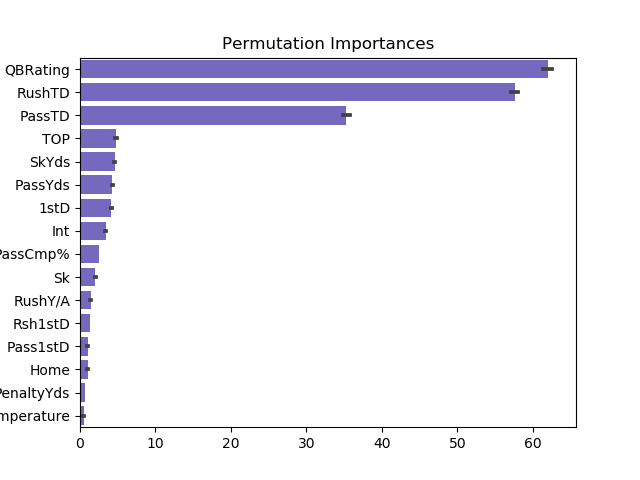
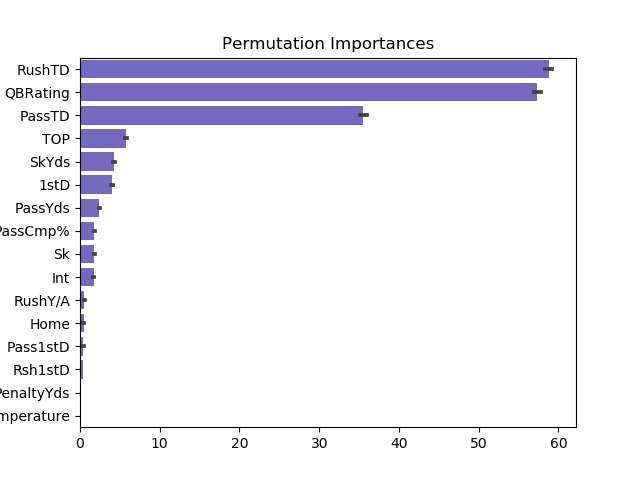
model update

diff --git a/src/model_MLP.py b/src/model_MLP.py
@@ -23,6 +23,7 @@ def get_data_ready_for_nn(train ,test):
        'Opp_SkYds', 'Opp_QBRating', 'Opp_RshY/A', 'Opp_RshTD', 'Tm_Temperature', 'Tm_RshY/A', 'Tm_RshTD', 'Tm_PassCmp%', 'Tm_PassYds', 'Tm_PassTD', 'Tm_INT', 'Tm_Sk', 'Tm_SkYds', 'Tm_QBRating', 'Tm_TOP']
     X_train = train.copy()[training_cols]
     X_test = test.copy()[training_cols]
+    X_validation = X_train
 
     y_train = train.copy()["Spread"]
     y_test = test.copy()["Spread"]
@@ -80,8 +81,8 @@ def importance(clf, X, y, cn):
 
 
 def train_nn(X_train, X_test, y_train, y_test, cn):
-    model = MLPRegressor(activation="relu", solver="adam", early_stopping=False, 
-    learning_rate="adaptive", max_iter=300,alpha=0.001,hidden_layer_sizes = (16,16))
+    model = MLPRegressor(activation="logistic", solver="adam", early_stopping=False, 
+    learning_rate="adaptive", max_iter=300,alpha=0.01,hidden_layer_sizes = (32,64,64,128))
     inverse = False
     if inverse :        
         inverse_y = 1/y_train

diff --git a/src/model_pytorch.py b/src/model_pytorch.py
@@ -55,7 +55,7 @@ def train_nn(x_train, x_test, y_train, y_test):
     model = Net(input_size, hidden_size)
     criterion = torch.nn.MSELoss()
     # without momentum parameter
-    optimizer = torch.optim.SGD(model.parameters(), lr = 1e-3)
+    optimizer = torch.optim.SGD(model.parameters(), lr = 1e-3) # adam # lr # lr_shceduler # sigmoid
 
     model.train()
     epochs = 500

diff --git a/src/baseline_model.py b/src/baseline_model.py
@@ -107,7 +107,7 @@ def build_model(train, test):
 
     # qqplot to analyze if our model as a whole follows linear regression assumptions
     sm.qqplot(res).set_size_inches(4,4)
-    plt.show()
+    plt.savefig("./src/plots/qqplot.png")
     # shows that the model is approximately normal and significant
 
     # return model to allow for predictions

diff --git a/run.py b/run.py
@@ -43,7 +43,7 @@ def main(targets):
     test = pd.read_csv("./src/test/test.csv")
     train = pd.read_csv("./src/final_data/train.csv")
 
-    nn = True
+    nn = False
     if nn:
         X_train, X_test, y_train, y_test, cn = get_data_ready_for_nn(train, test)
         mdl = train_nn(X_train, X_test, y_train, y_test, cn)
